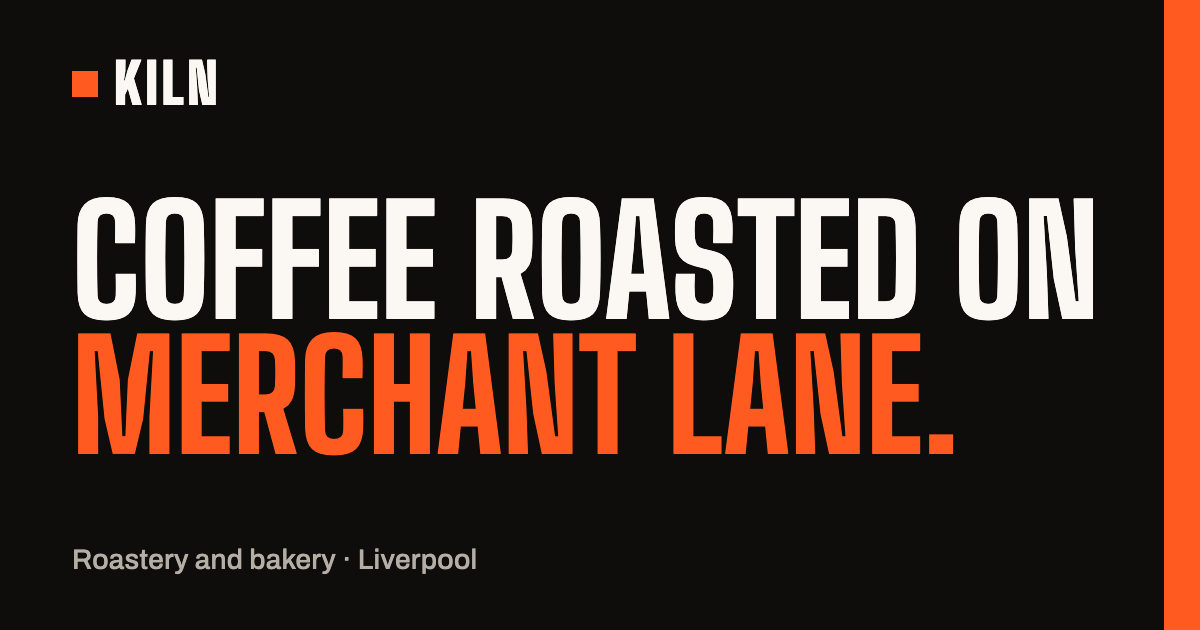
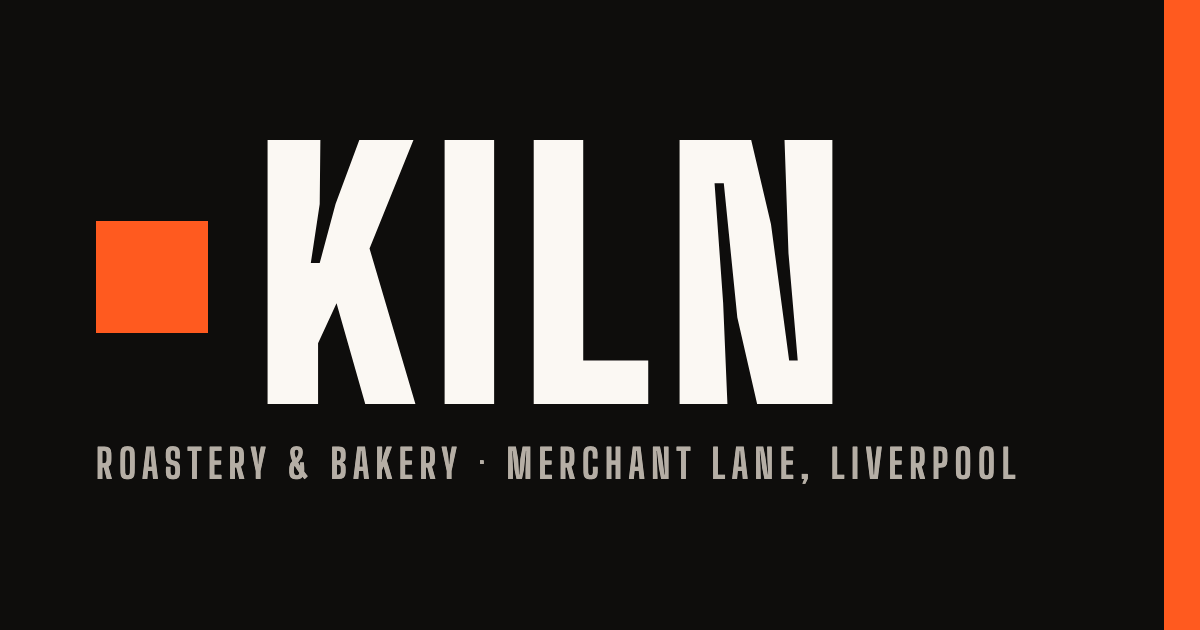
Hero: brand name headline with a small tagline
Replace the sentence headline with the Kiln wordmark and a one-line
tagline, move the title into the left column beside the photo, and
refresh the share image and Open Graph description to match.

diff --git a/index.html b/index.html
@@ -9,7 +9,7 @@
 
   <meta property="og:type" content="website">
   <meta property="og:title" content="Kiln Coffee Roasters">
-  <meta property="og:description" content="Coffee roasted on Merchant Lane. Roastery and bakery in Liverpool.">
+  <meta property="og:description" content="Roastery and bakery on Merchant Lane, Liverpool.">
   <meta property="og:url" content="https://lukebrennan.github.io/kiln/">
   <meta property="og:image" content="https://lukebrennan.github.io/kiln/assets/og.png">
   <meta property="og:image:width" content="1200">
@@ -44,11 +44,13 @@
 
     <section class="hero" id="top">
       <div class="wrap">
-        <h1><span>Coffee roasted on</span> <em>Merchant Lane.</em></h1>
-
         <div class="hero-grid">
           <div class="hero-info">
-            <p class="deck">Independent roastery and bakery in Liverpool. We roast our own beans in the front window and bake fresh every morning.</p>
+            <div class="hero-title">
+              <h1>Kiln</h1>
+              <p class="tagline">Roastery &amp; bakery · Merchant Lane, Liverpool</p>
+            </div>
+            <p class="deck">We roast our own beans in the front window and bake fresh every morning.</p>
             <div class="hero-actions">
               <a class="btn" href="#menu">
                 See the menu

diff --git a/assets/css/style.css b/assets/css/style.css
@@ -172,13 +172,29 @@ p { margin: 0; max-width: 60ch; text-wrap: pretty; }
 .hero { padding-block: clamp(36px, 6vw, 80px) clamp(56px, 8vw, 112px); }
 
 .hero h1 {
+  display: flex;
+  align-items: center;
+  gap: 0.14em;
   color: var(--white);
-  font-size: clamp(3.5rem, 10vw, 6rem);
-  text-wrap: wrap;
+  font-size: clamp(5.5rem, 17vw, 10rem);
+  line-height: 0.82;
+  letter-spacing: 0.04em;
 }
-.hero h1 em { font-style: normal; color: var(--orange); }
-@media (min-width: 700px) {
-  .hero h1 span, .hero h1 em { display: block; }
+.hero h1::before {
+  content: "";
+  width: 0.34em;
+  height: 0.34em;
+  background: var(--orange);
+  flex: none;
+}
+.hero-title { margin-bottom: 8px; }
+.tagline {
+  margin-top: clamp(14px, 2vw, 22px);
+  font: 700 clamp(0.9375rem, 1.6vw, 1.125rem)/1.3 var(--display);
+  letter-spacing: 0.16em;
+  text-transform: uppercase;
+  color: var(--muted);
+  max-width: none;
 }
 
 .hero-grid {
@@ -186,7 +202,7 @@ p { margin: 0; max-width: 60ch; text-wrap: pretty; }
   grid-template-columns: repeat(12, minmax(0, 1fr));
   column-gap: 24px;
   row-gap: 48px;
-  margin-top: clamp(32px, 5vw, 56px);
+  margin-top: 0;
   align-items: start;
 }
 .hero-info { grid-column: 1 / -1; display: grid; gap: 32px; }
